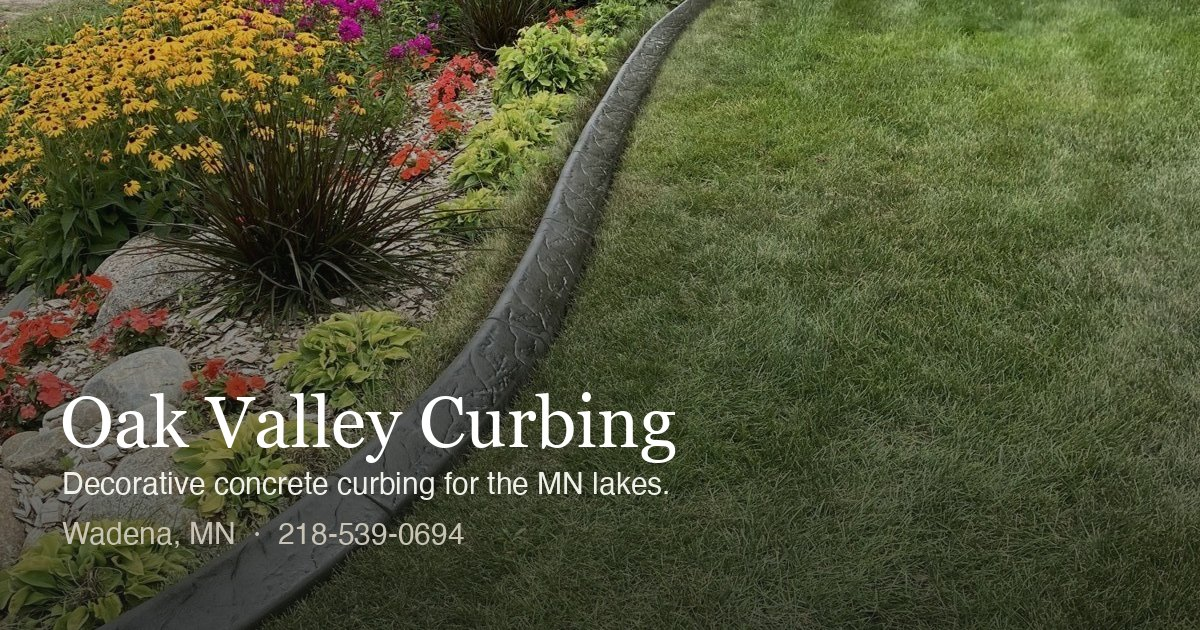
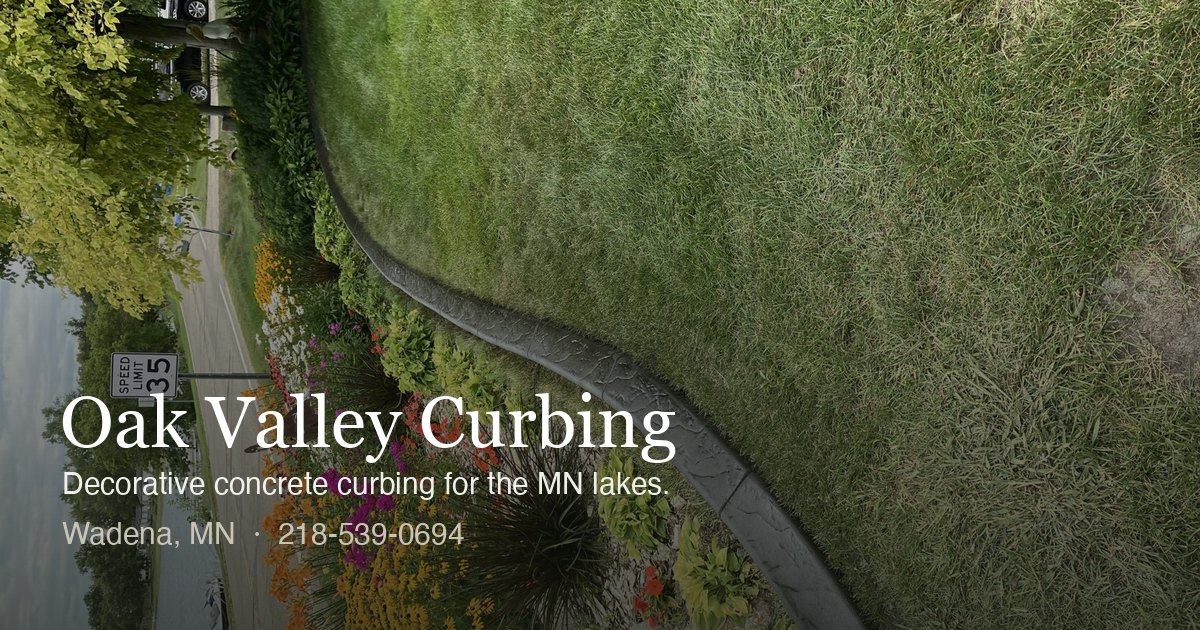
Restore correct image orientation from HEIC source; fix process step contrast; smaller hero

diff --git a/app/page.tsx b/app/page.tsx
@@ -233,7 +233,7 @@ export default function Home() {
           <ol className="grid md:grid-cols-4 gap-6">
             {process.map((p) => (
               <li key={p.step} className="relative">
-                <div className="font-display text-5xl text-[var(--accent)]/60 mb-2">{p.step}</div>
+                <div className="font-display text-5xl text-[var(--accent)] mb-2">{p.step}</div>
                 <h3 className="font-display text-xl mb-2">{p.title}</h3>
                 <p className="text-sm text-[var(--foreground)]/75 leading-relaxed">{p.body}</p>
               </li>